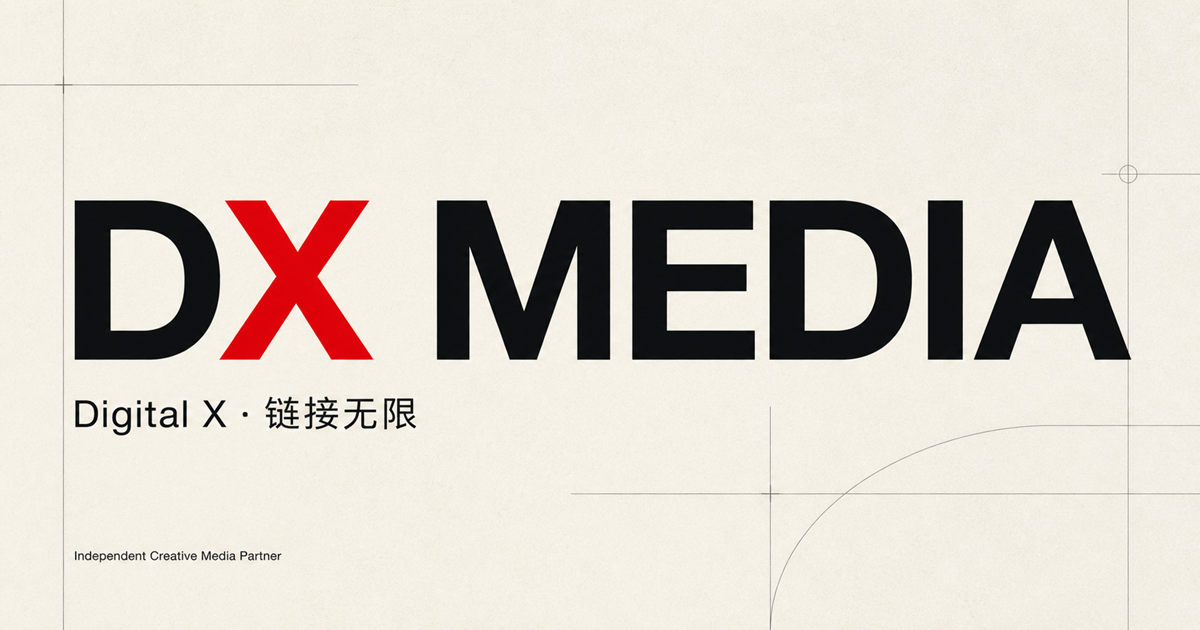
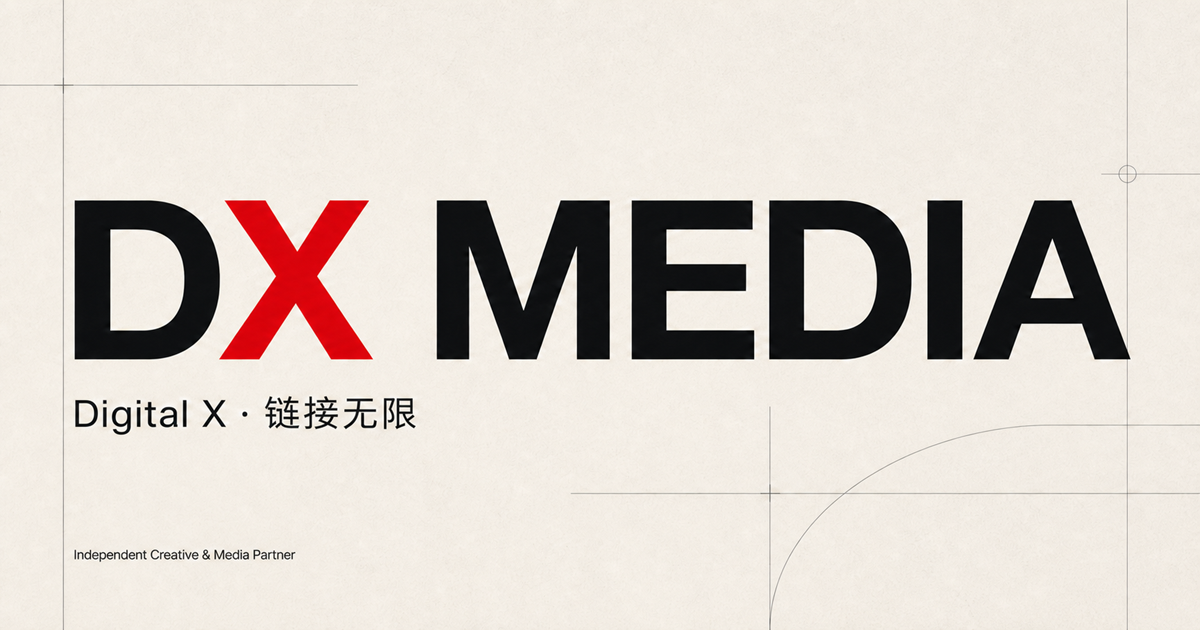
Update creative and media positioning

diff --git a/src/app/layout.tsx b/src/app/layout.tsx
@@ -16,7 +16,7 @@ export const metadata: Metadata = {
   ],
   openGraph: {
     title: "DX MEDIA — Digital X · 链接无限",
-    description: "Independent Creative Media Partner，链接品牌、内容与真实消费人群。",
+    description: "Independent Creative & Media Partner，链接品牌、内容与真实消费人群。",
     type: "website",
     locale: "zh_CN",
     url: "https://contt99.github.io/dx-media/",
@@ -32,7 +32,7 @@ export const metadata: Metadata = {
   twitter: {
     card: "summary_large_image",
     title: "DX MEDIA — Digital X · 链接无限",
-    description: "Independent Creative Media Partner，链接品牌、内容与真实消费人群。",
+    description: "Independent Creative & Media Partner，链接品牌、内容与真实消费人群。",
     images: ["https://contt99.github.io/dx-media/og.png"],
   },
 };

diff --git a/src/content/site.ts b/src/content/site.ts
@@ -12,7 +12,7 @@ export const siteContent = {
     { label: "How We Work", href: "#how-we-work" },
   ],
   hero: {
-    eyebrow: "Independent Creative Media Partner",
+    eyebrow: "Independent Creative & Media Partner",
     statement: "链接品牌、内容与真实消费人群。",
     scrollLabel: "Scroll to connect",
   },
@@ -97,7 +97,7 @@ export const siteContent = {
     },
   },
   footer: {
-    eyebrow: "INDEPENDENT CREATIVE MEDIA PARTNER",
+    eyebrow: "INDEPENDENT CREATIVE & MEDIA PARTNER",
     copyright: "© 2026 DX MEDIA",
   },
 } satisfies SiteContent;
